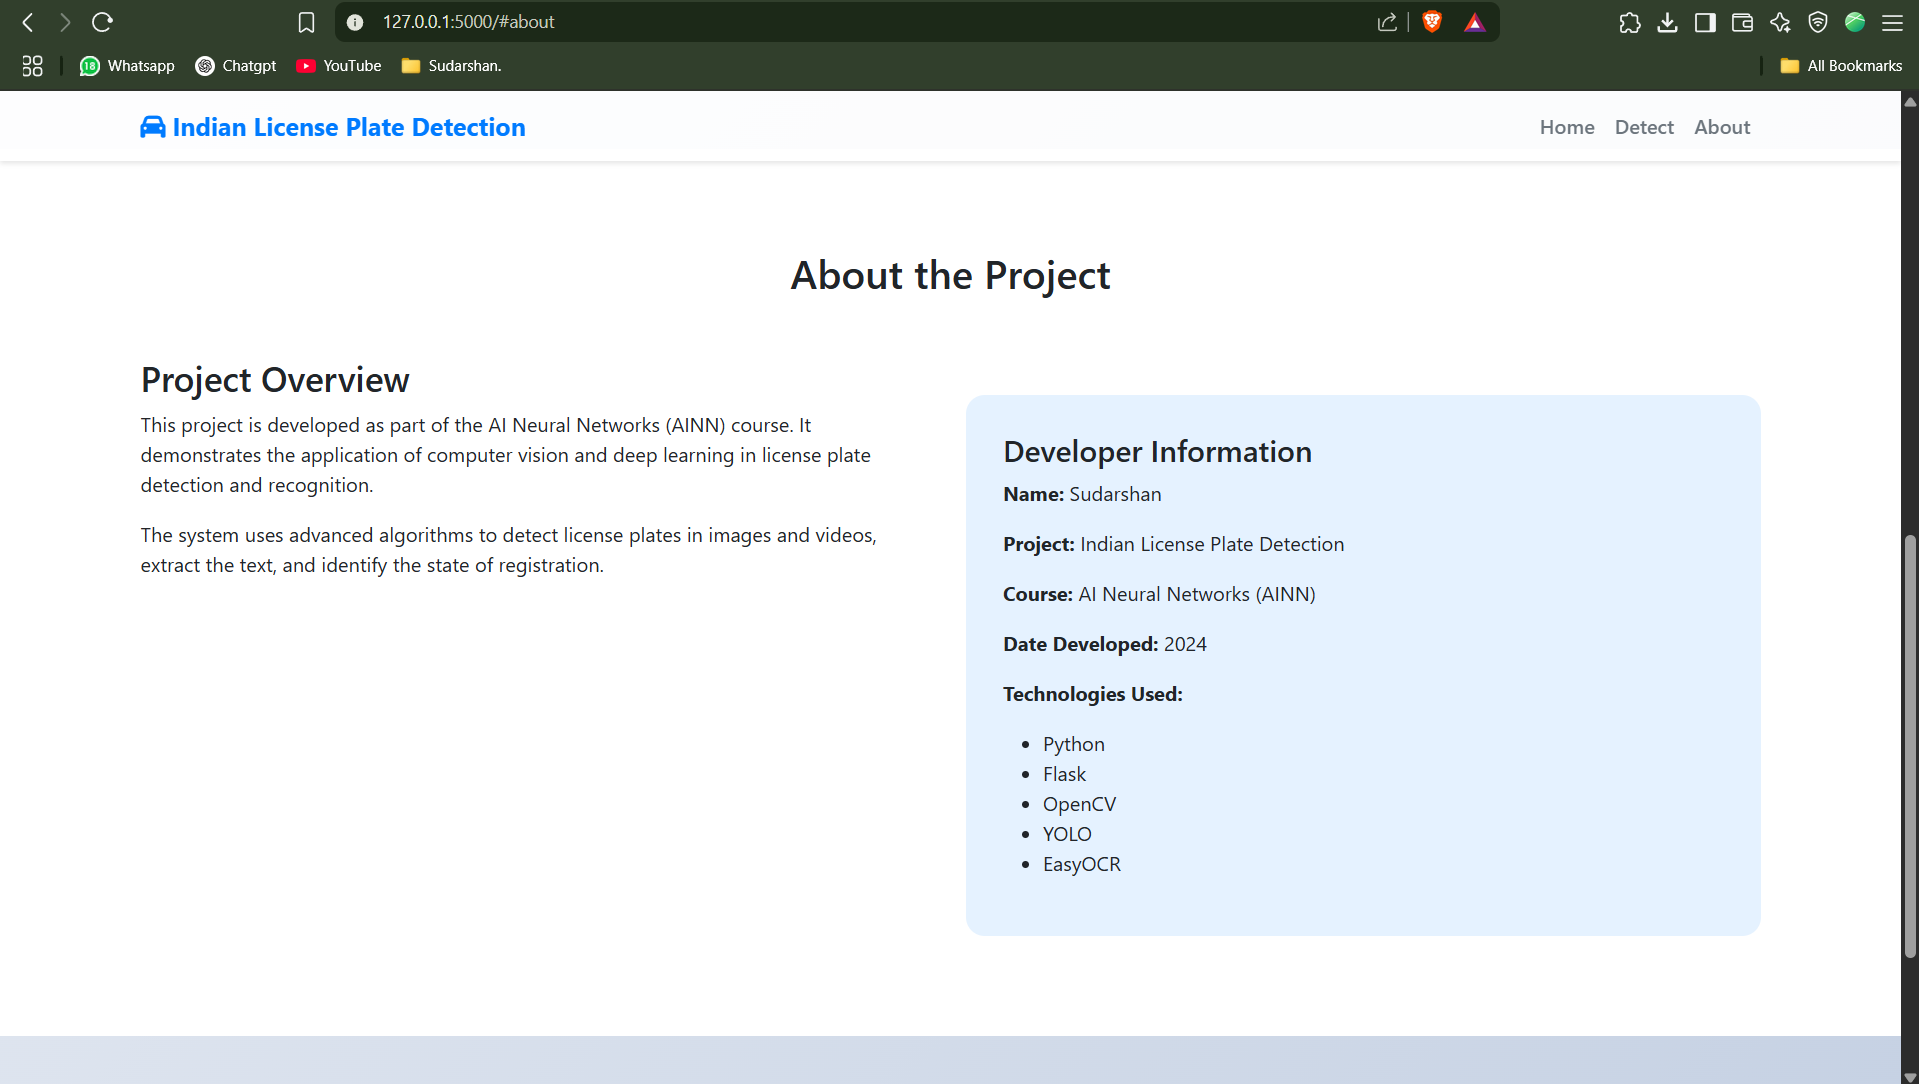
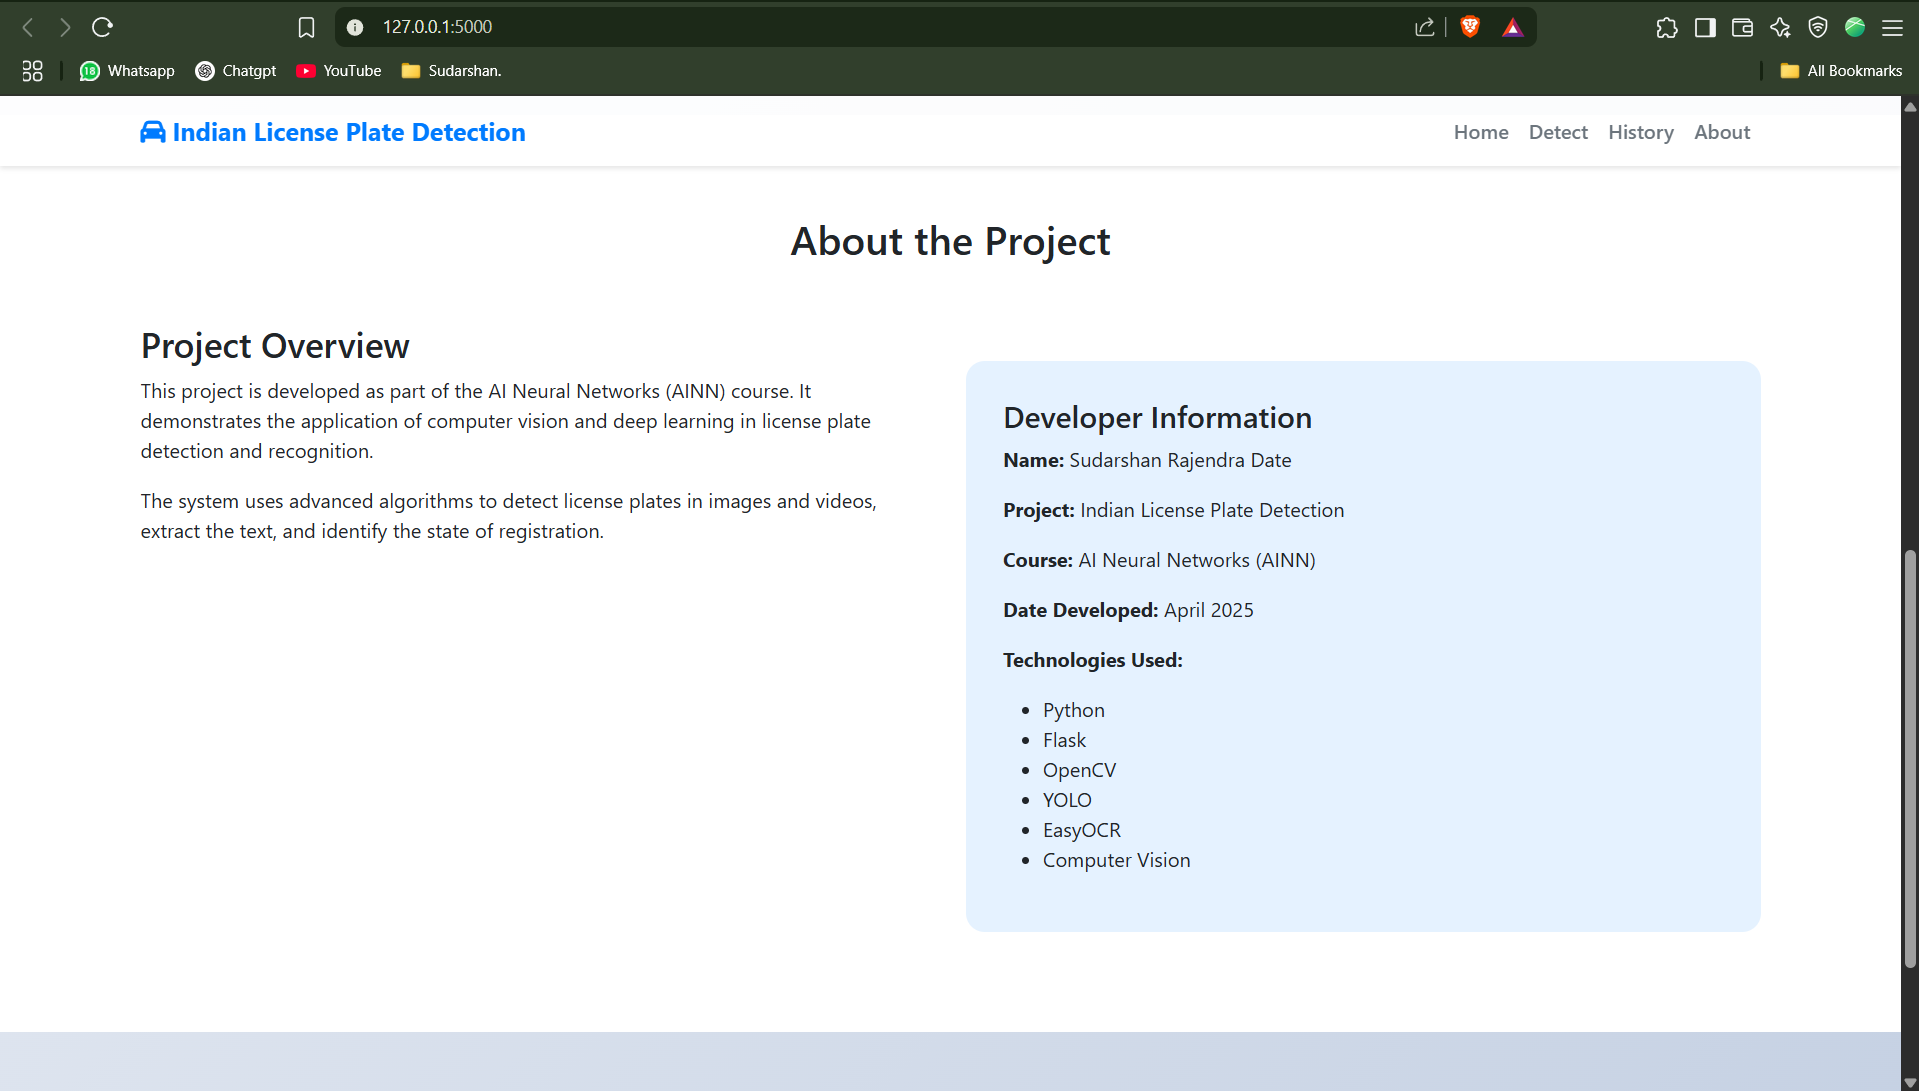
Update development dates in README and landing pages; remove navigation comment from history.html

diff --git a/templates/landing.html b/templates/landing.html
@@ -186,7 +186,7 @@
                         <p><strong>Name:</strong> Sudarshan Rajendra Date</p>
                         <p><strong>Project:</strong> Indian License Plate Detection</p>
                         <p><strong>Course:</strong> AI Neural Networks (AINN)</p>
-                        <p><strong>Date Developed:</strong> 2025</p>
+                        <p><strong>Date Developed:</strong> April 2025</p>
                         <p><strong>Technologies Used:</strong></p>
                         <ul>
                             <li>Python</li>
@@ -194,6 +194,7 @@
                             <li>OpenCV</li>
                             <li>YOLO</li>
                             <li>EasyOCR</li>
+                            <li>Computer Vision</li>
                         </ul>
                     </div>
                 </div>

diff --git a/templates/history.html b/templates/history.html
@@ -94,7 +94,6 @@
 </head>
 
 <body>
-    <!-- Navigation -->
     <nav class="navbar navbar-expand-lg navbar-light fixed-top">
         <div class="container">
             <a class="navbar-brand" href="/">

diff --git a/README.md b/README.md
@@ -120,7 +120,7 @@ _The history page showing previous detections_
 ## Developer Information
 
 - **Developer**: Sudarshan date
-- **Development Date**: March 2025
+- **Development Date**: April 2025
 - **Contact**: sudarshandate21@gmail.com
 
 ## License
